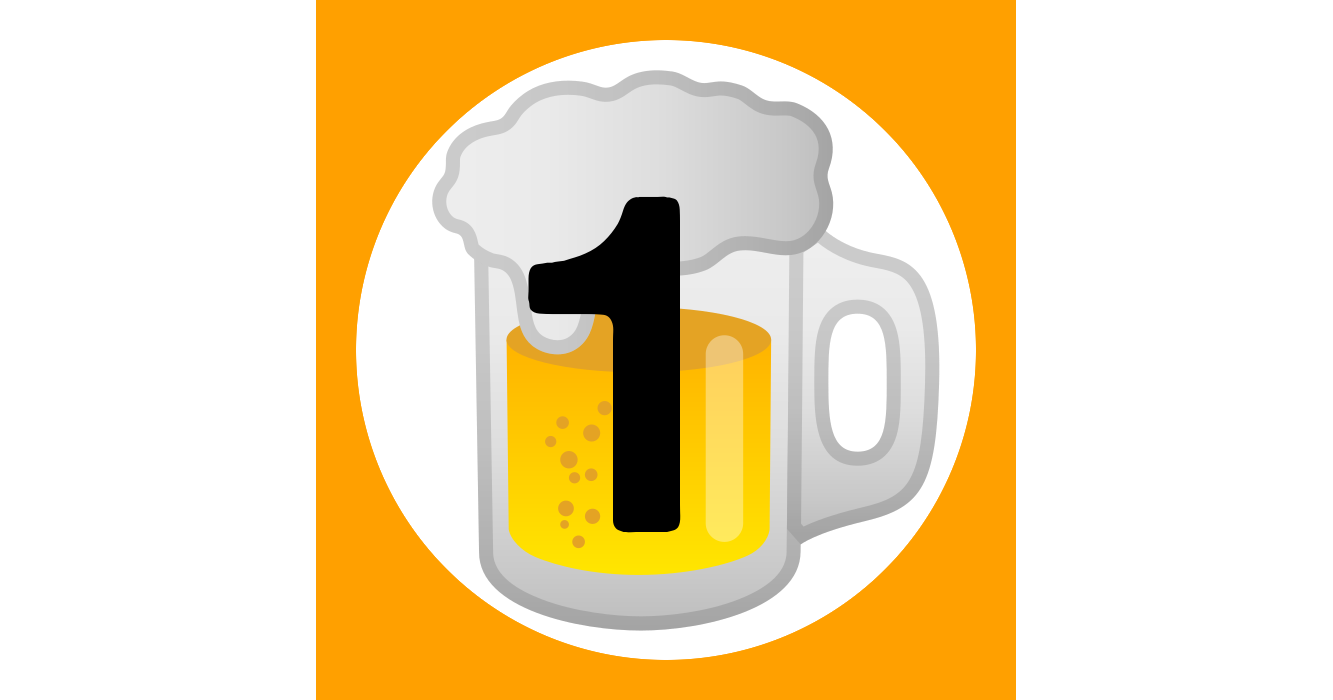
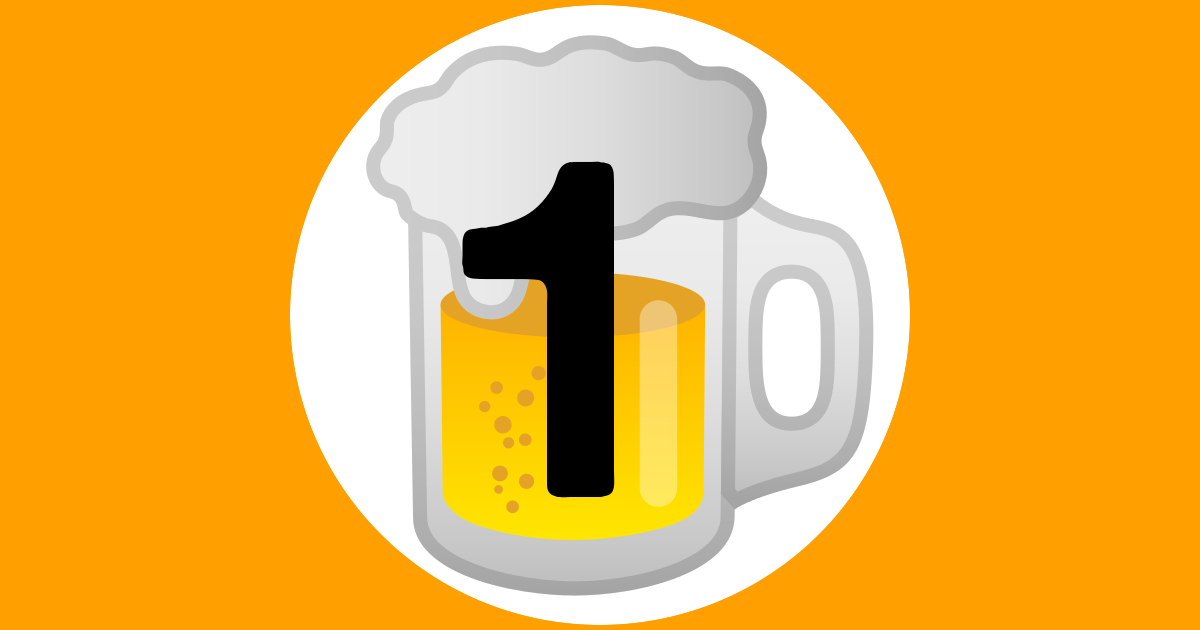
fix og/twitter image path

diff --git a/public/index.html b/public/index.html
@@ -20,7 +20,7 @@
 		<meta property="og:image" content="%PUBLIC_URL%/og-image.png" />
 		<meta property="og:site_name" content="onebeer.me" />
 
-		<meta name="twitter:card" content="summary">
+		<meta name="twitter:card" content="summary_large_image">
 		<meta name="twitter:title" content="one&#127866;">
 		<meta name="twitter:text:title" content="one&#127866;">
 		<meta name="twitter:description" content="track your drinks">
